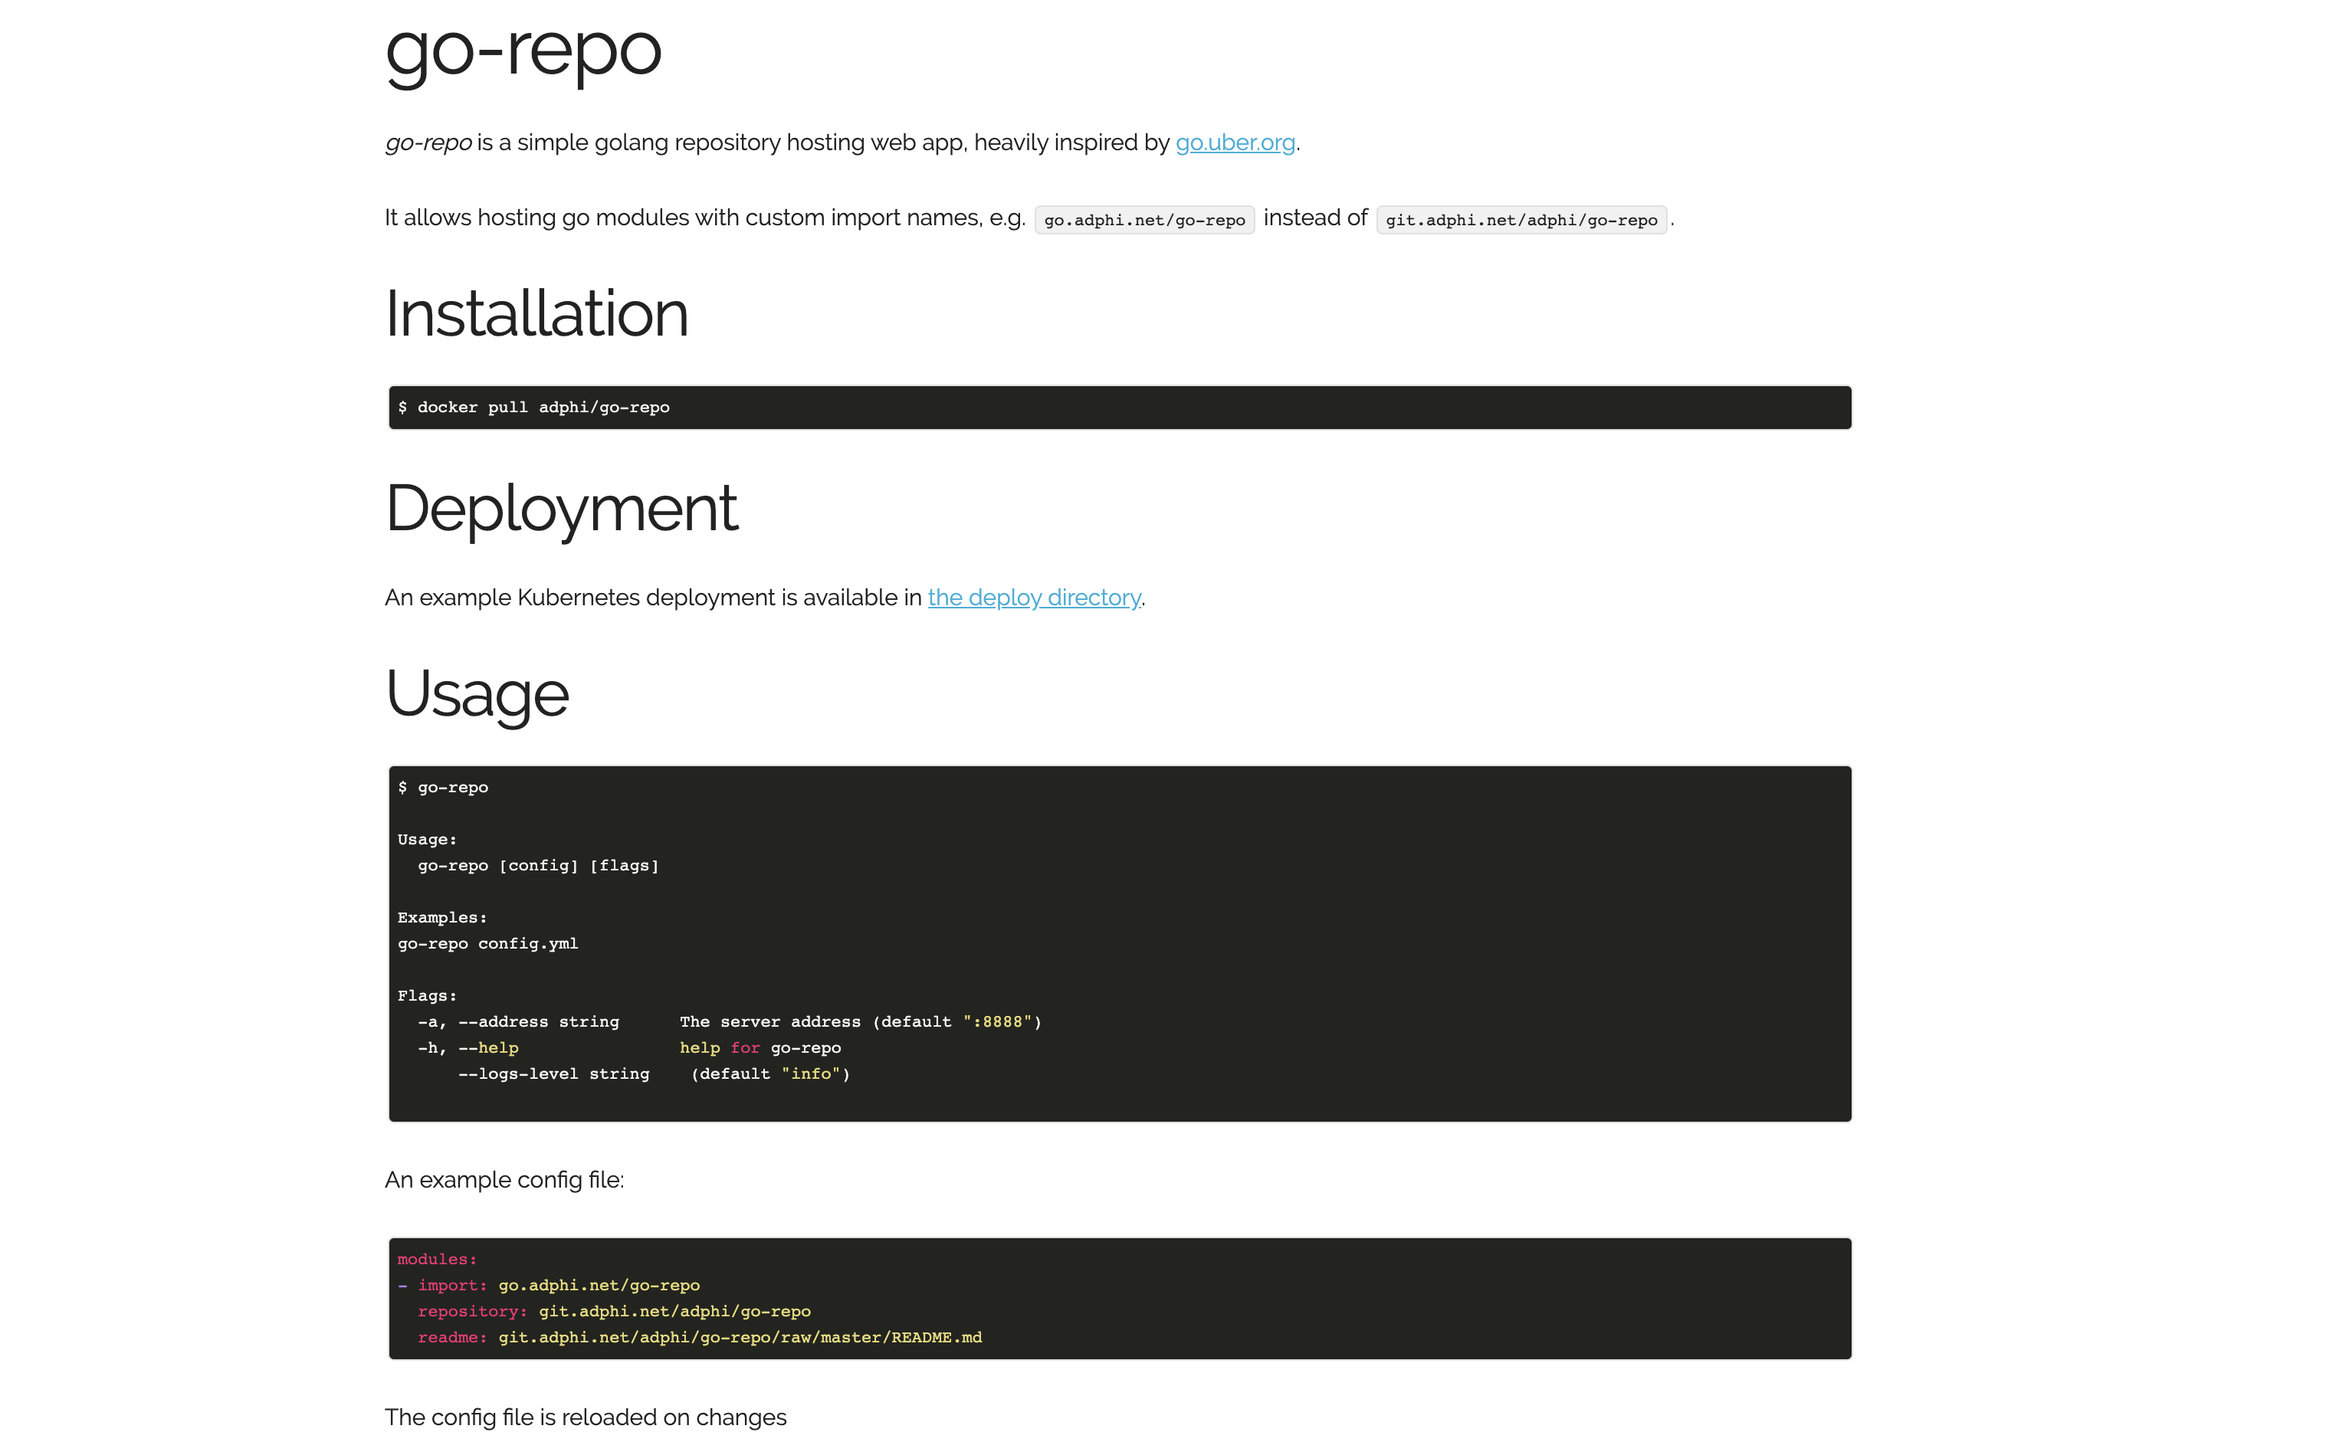
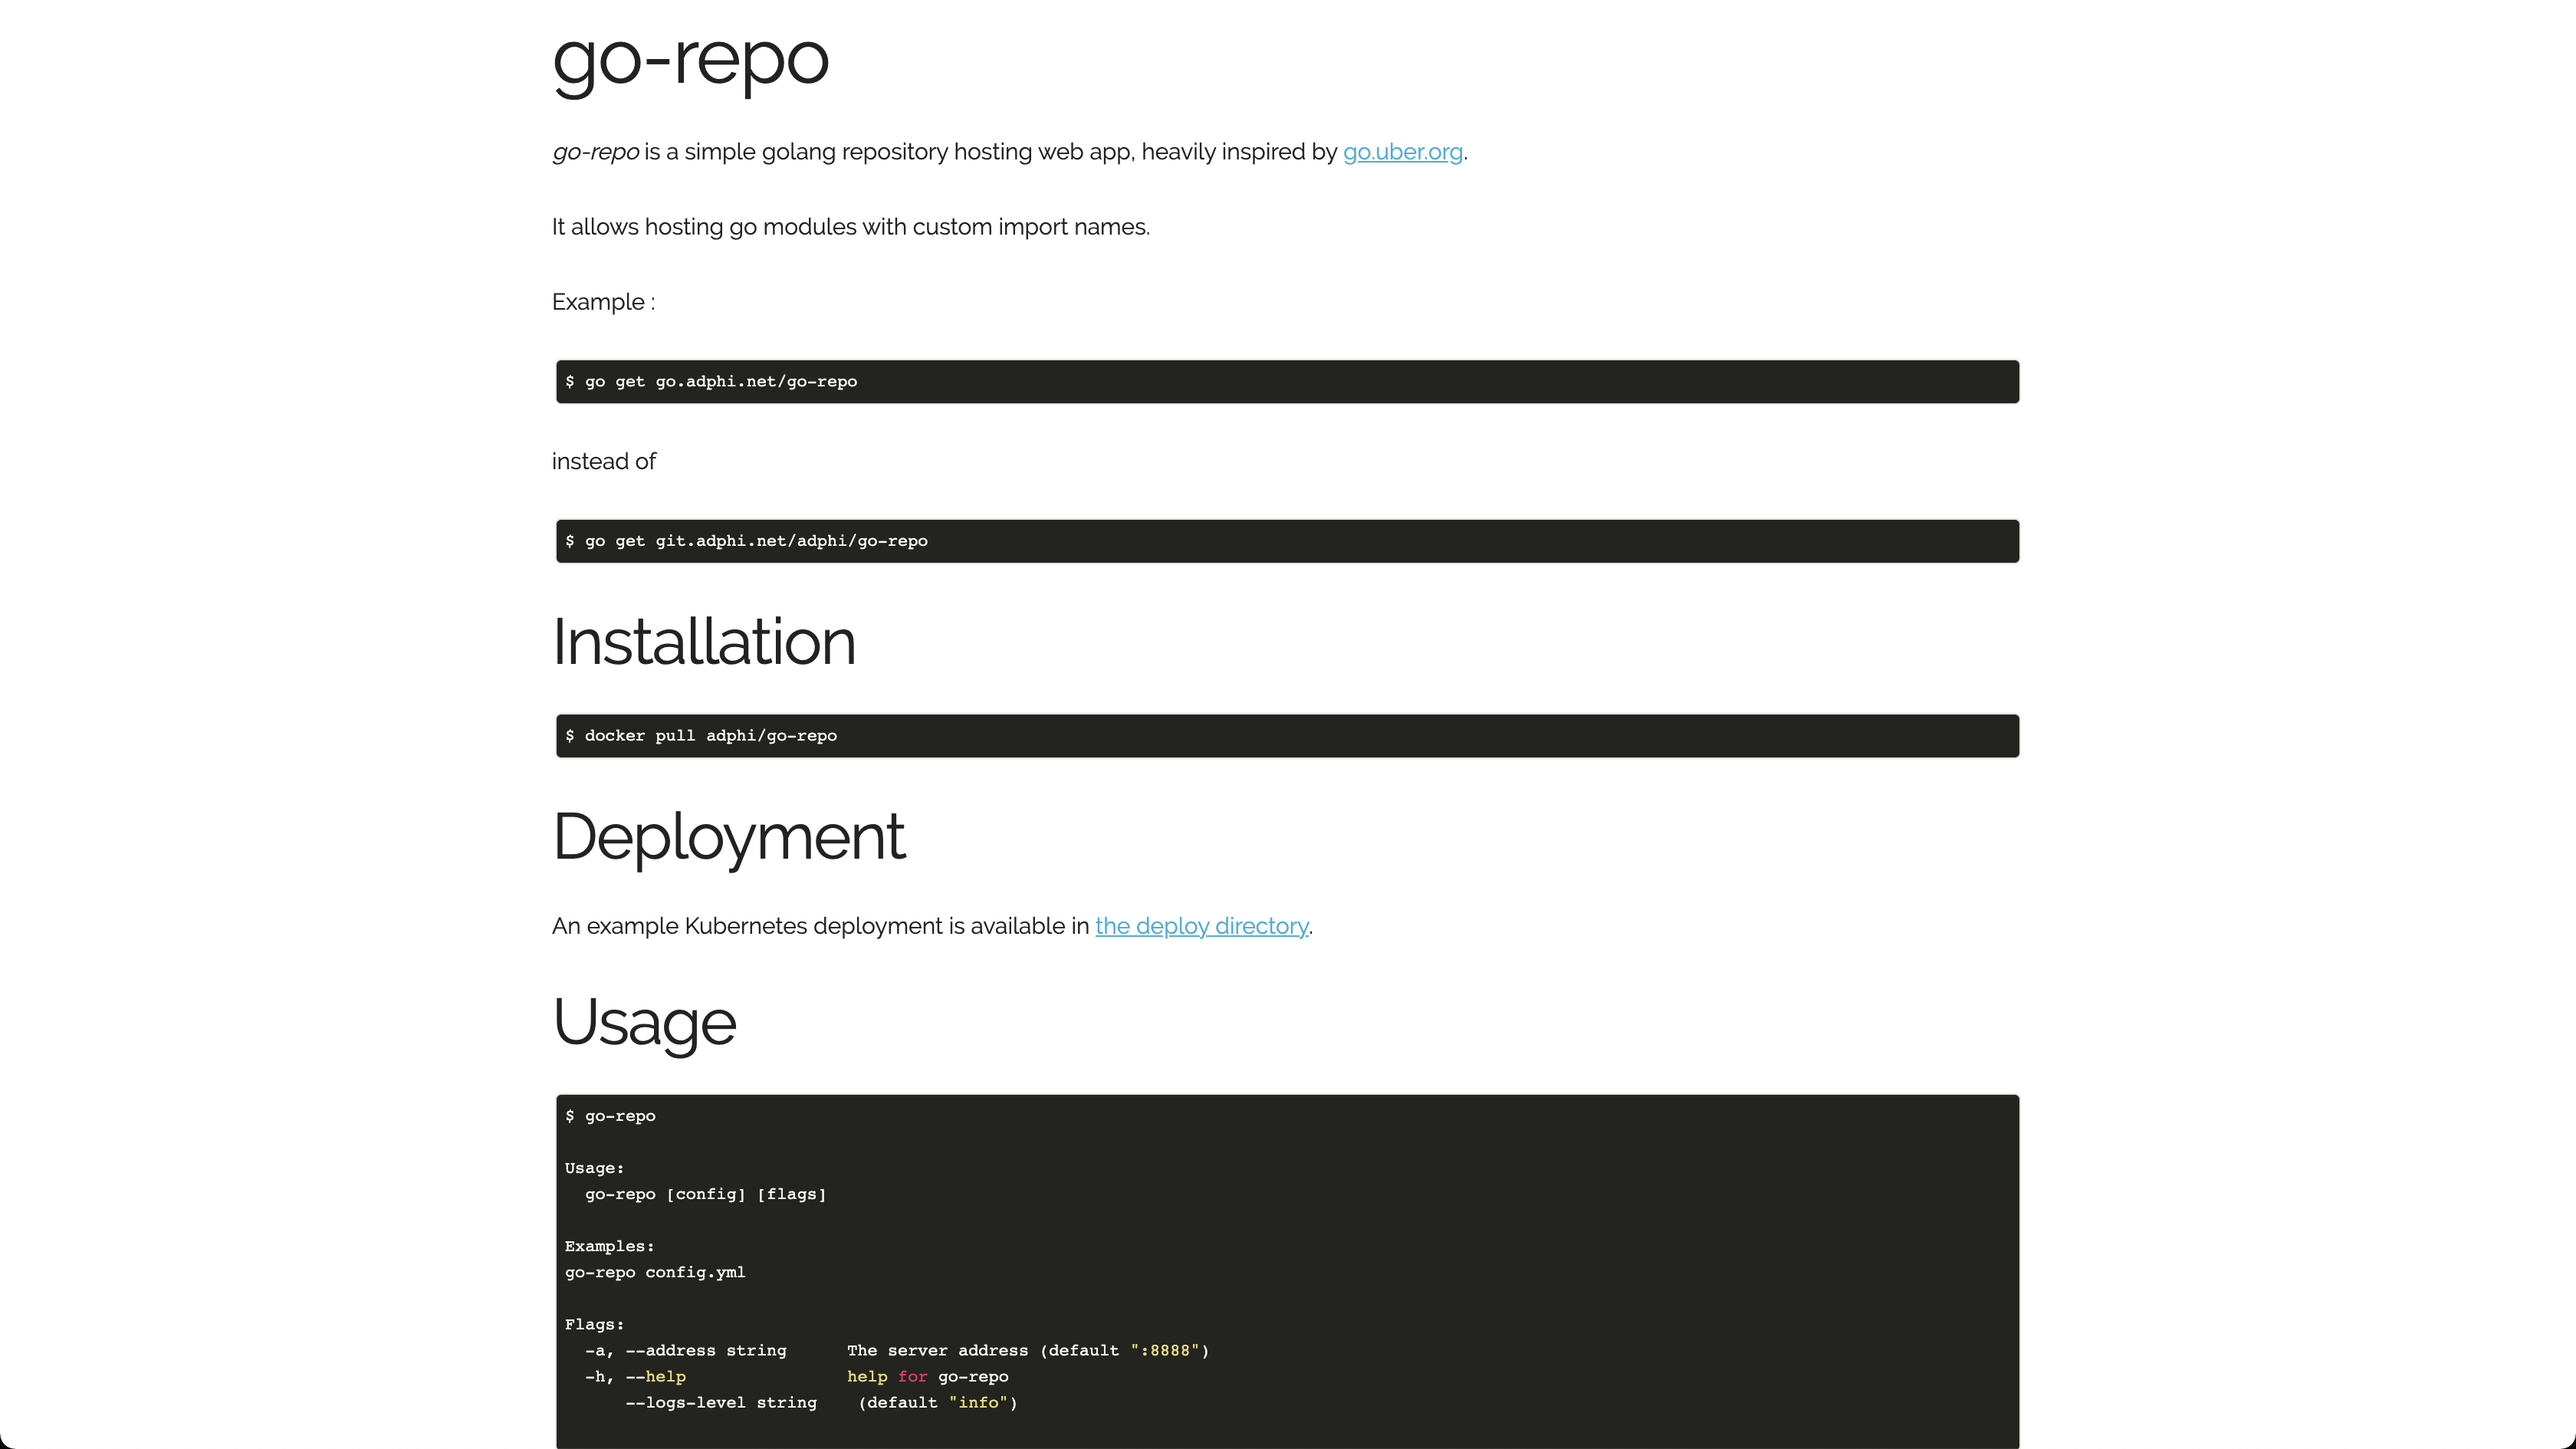
moved module to go.linka.cloud

diff --git a/README.md b/README.md
@@ -7,18 +7,18 @@ It allows hosting go modules with custom import names.
 Example :
 
 ```bash
-$ go get go.adphi.net/go-repo
+$ go get go.linka.cloud/go-repo
 ```
 
 instead of 
 
 ```bash
-$ go get git.adphi.net/adphi/go-repo
+$ go get github.com/linka-cloud/go-repo
 ```
 
 ## Installation
 ```bash
-$ docker pull adphi/go-repo
+$ docker pull linkacloud/go-repo
 ```
 
 ## Deployment
@@ -46,9 +46,9 @@ Flags:
 An example config file:
 ```yaml
 modules:
-- import: go.adphi.net/go-repo
-  repository: git.adphi.net/adphi/go-repo
-  readme: git.adphi.net/adphi/go-repo/raw/master/README.md
+- import: go.linka.cloud/go-repo
+  repository: github.com/linka-cloud/go-repo
+  readme: github.com/linka-cloud/go-repo/raw/master/README.md
 ```
 The config file is reloaded on changes
 
